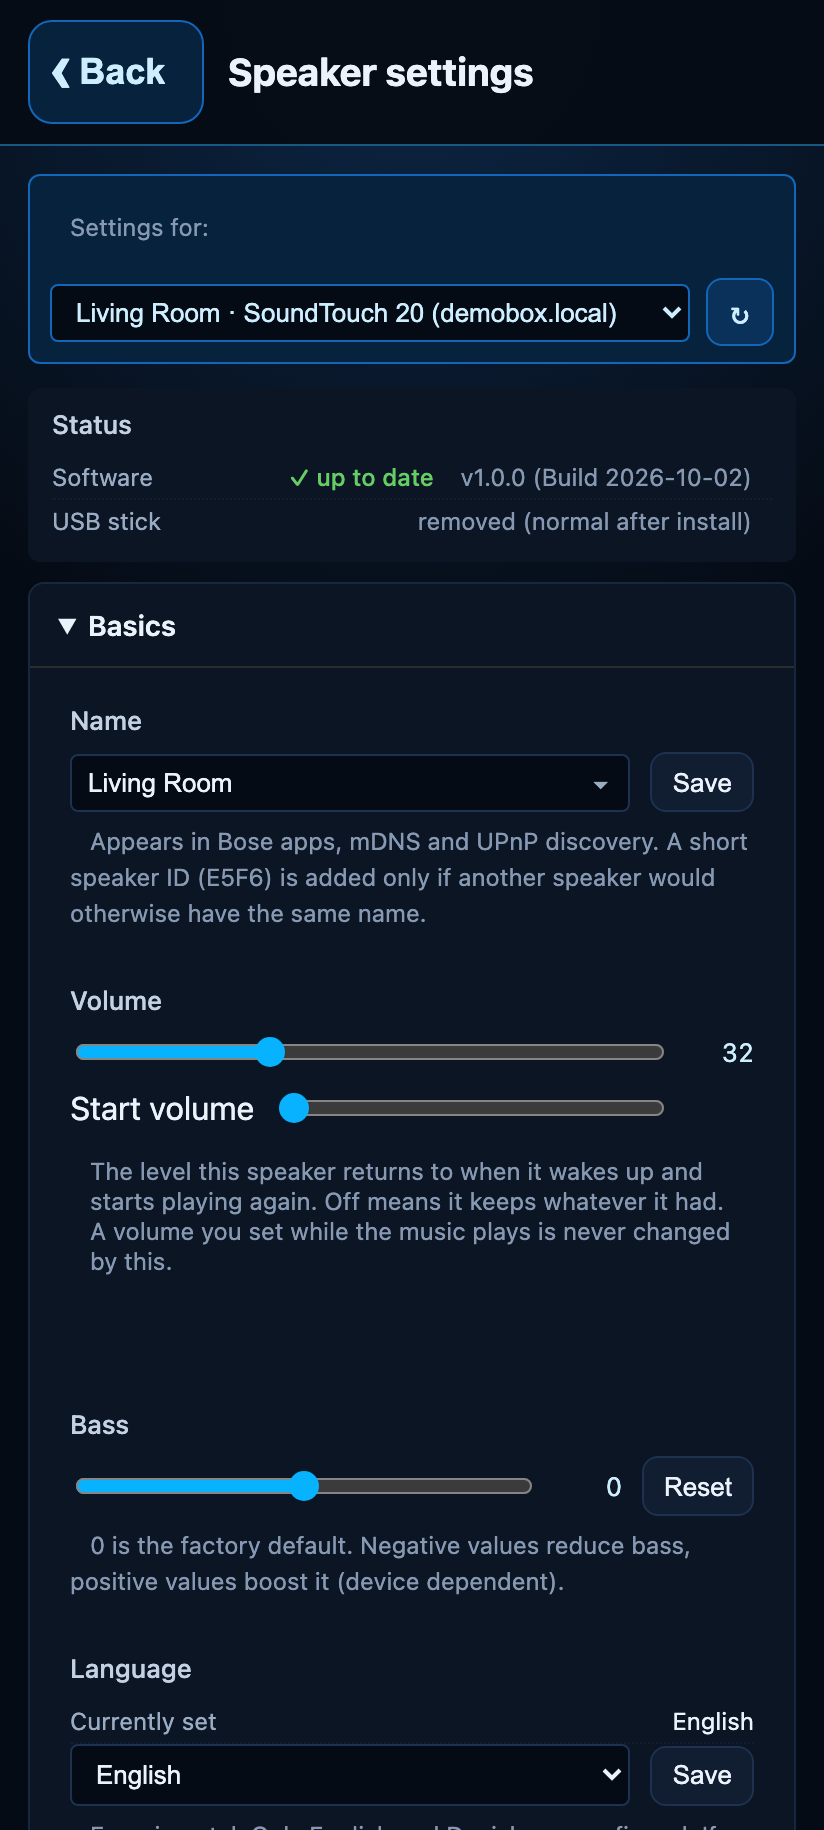
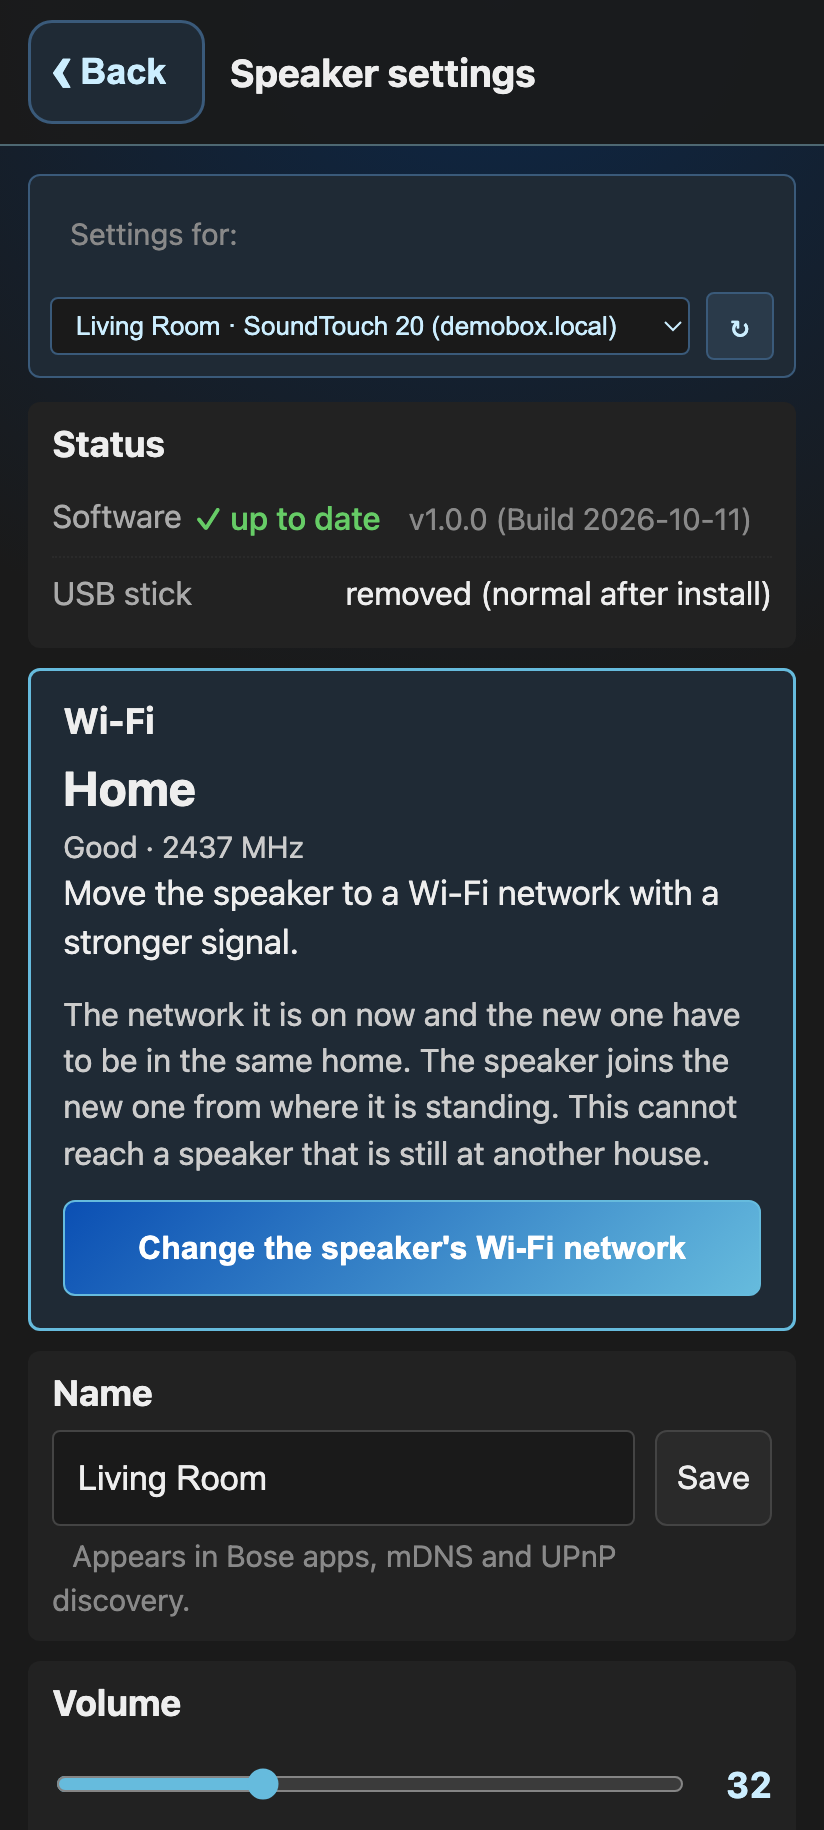
docs(site): show changing a speaker's Wi-Fi from the app

Changed region(s): [[0.0303, 0.0, 0.9709, 0.7475], [0.0607, 0.7475, 0.9405, 1.0]]

diff --git a/site/es/index.html b/site/es/index.html
@@ -43,14 +43,14 @@
 
     <section id="android">
       <h2>Instalar con la app de Android</h2>
-      <p>El teléfono y el altavoz tienen que estar en el mismo Wi-Fi. Usa esta copia hasta que la app esté en Google Play.</p>
+      <p>El teléfono y el altavoz tienen que estar en el mismo Wi-Fi. Usa esta copia hasta que la app esté en Google Play. Desde los ajustes del altavoz puedes pasarlo a otra red Wi-Fi de la misma casa, una con más señal. No hace falta la app de Bose.</p>
       <div class="phones">
         <figure><img src="../img/android/app-home.png" width="824" height="1830" alt="Pantalla de inicio en Android con Escuchar música, Recientes, TuneIn, Spotify, Biblioteca y Multisala"><figcaption>Inicio</figcaption></figure>
         <figure><img src="../img/android/app-listen.png" width="824" height="1830" alt="Reproducción de Best Of Rock.FM con seis teclas de presintonía en la app de Android"><figcaption>Escuchar</figcaption></figure>
         <figure><img src="../img/android/app-search.png" width="824" height="1830" alt="Búsqueda de emisoras por idioma y género, con Best Of Rock.FM, BBC Radio 1 y Radio Paradise"><figcaption>Buscar emisoras</figcaption></figure>
         <figure><img src="../img/android/app-tunein.png" width="824" height="1830" alt="Búsqueda en TuneIn de jazz, con Jazz24, Smooth Jazz 24/7 y Jazz Radio Classic"><figcaption>TuneIn</figcaption></figure>
         <figure><img src="../img/android/app-library.png" width="824" height="1830" alt="Biblioteca de música de un NAS, con carpetas Music, Pictures e Internet Radio"><figcaption>Biblioteca</figcaption></figure>
-        <figure><img src="../img/android/app-settings1.png" width="824" height="1830" alt="Ajustes del altavoz: nombre, volumen, graves e idioma"><figcaption>Ajustes</figcaption></figure>
+        <figure><img src="../img/android/app-settings1.png" width="824" height="1830" alt="Ajustes del altavoz con la red Wi-Fi Home y un botón para pasarlo a otra red de la misma casa"><figcaption>Cambiar Wi-Fi</figcaption></figure>
       </div>
       <ol class="steps">
         <li><strong>Descarga</strong> <a href="https://github.com/jcbenitezhe/SoundTouchManager/releases/latest/download/SoundTouchManager-1.0.0-Android.apk">SoundTouchManager-1.0.0-Android.apk</a>. Si el navegador dice que el archivo puede dañar el dispositivo, elige <em>Descargar de todas formas</em>.</li>
@@ -72,6 +72,7 @@
         <div class="card"><h3>Tu propia música</h3><p>Explora servidores DLNA de tu red (FRITZ!Box, Synology, Plex, miniDLNA).</p></div>
         <div class="card"><h3>Multisala y estéreo</h3><p>Agrupa altavoces para que suenen sincronizados, o empareja dos como izquierdo y derecho.</p></div>
         <div class="card"><h3>Mando en el móvil</h3><p>Cada altavoz ofrece un control remoto en el navegador del teléfono. Sin tienda de apps ni cuenta.</p></div>
+        <div class="card"><h3>Cambiar de red</h3><p>Mueve un altavoz que ya tiene SoundTouch Manager a otra red Wi-Fi de la misma casa. Después conecta el teléfono a esa red.</p></div>
       </div>
     </section>
 
@@ -114,6 +115,10 @@
       <details>
         <summary>¿Necesito una cuenta de Bose o la app de Bose?</summary>
         <p>No. Todo funciona en tu altavoz y en tu computadora, dentro de tu red doméstica.</p>
+      </details>
+      <details>
+        <summary>¿Puedo cambiar la red Wi-Fi del altavoz?</summary>
+        <p>Sí, cuando SoundTouch Manager ya está en el altavoz. Abre los ajustes y elige <em>Configurar otro Wi-Fi</em>. La red de ahora y la red nueva tienen que estar en la misma casa: el altavoz se une a la nueva desde donde está. Después conecta el teléfono a la red nueva. Un altavoz que nunca ha tenido red se configura desde <em>Configurar altavoz</em>, con la app de Bose, un cable Ethernet o una memoria USB.</p>
       </details>
       <details>
         <summary>¿Qué firmware necesita el altavoz?</summary>

diff --git a/site/index.html b/site/index.html
@@ -43,14 +43,14 @@
 
     <section id="android">
       <h2>Install with the Android app</h2>
-      <p>The phone and the speaker need to be on the same Wi-Fi. Use this until the app is on Google Play.</p>
+      <p>The phone and the speaker need to be on the same Wi-Fi. Use this until the app is on Google Play. From Speaker settings you can move the speaker to another Wi-Fi network in the same home, one with a stronger signal. No Bose app is needed.</p>
       <div class="phones">
         <figure><img src="img/android/app-home.png" width="824" height="1830" alt="Android home screen with Listen to music, Recently played, TuneIn, Spotify, Library and Multi-room"><figcaption>Home</figcaption></figure>
         <figure><img src="img/android/app-listen.png" width="824" height="1830" alt="Now playing Best Of Rock.FM with six preset keys on the Android app"><figcaption>Listen</figcaption></figure>
         <figure><img src="img/android/app-search.png" width="824" height="1830" alt="Station search filtered by language and genre, with Best Of Rock.FM, BBC Radio 1 and Radio Paradise"><figcaption>Search stations</figcaption></figure>
         <figure><img src="img/android/app-tunein.png" width="824" height="1830" alt="TuneIn search for jazz, with Jazz24, Smooth Jazz 24/7 and Jazz Radio Classic"><figcaption>TuneIn</figcaption></figure>
         <figure><img src="img/android/app-library.png" width="824" height="1830" alt="Music library browsing a Living Room NAS, with Music, Pictures and Internet Radio folders"><figcaption>Library</figcaption></figure>
-        <figure><img src="img/android/app-settings1.png" width="824" height="1830" alt="Speaker settings for name, volume, bass and language"><figcaption>Speaker settings</figcaption></figure>
+        <figure><img src="img/android/app-settings1.png" width="824" height="1830" alt="Speaker settings showing the Wi-Fi network Home and a button to move the speaker to another network in the same home"><figcaption>Change Wi-Fi</figcaption></figure>
       </div>
       <ol class="steps">
         <li><strong>Download</strong> <a href="https://github.com/jcbenitezhe/SoundTouchManager/releases/latest/download/SoundTouchManager-1.0.0-Android.apk">SoundTouchManager-1.0.0-Android.apk</a>. If the browser says the file can harm your device, choose <em>Download anyway</em>.</li>
@@ -72,6 +72,7 @@
         <div class="card"><h3>Your own music</h3><p>Browse DLNA media servers on your network (FRITZ!Box, Synology, Plex, miniDLNA).</p></div>
         <div class="card"><h3>Multiroom and stereo</h3><p>Group speakers to play in sync, or pair two as left and right.</p></div>
         <div class="card"><h3>Phone remote</h3><p>Each speaker serves a remote for your phone's browser. No app store, no account.</p></div>
+        <div class="card"><h3>Change Wi-Fi</h3><p>Move a speaker that already runs SoundTouch Manager to another Wi-Fi network in the same home. Then connect your phone to that network.</p></div>
       </div>
     </section>
 
@@ -114,6 +115,10 @@
       <details>
         <summary>Do I need a Bose account or the Bose app?</summary>
         <p>No. Everything runs on your speaker and your computer, on your home network.</p>
+      </details>
+      <details>
+        <summary>Can I change the speaker's Wi-Fi?</summary>
+        <p>Yes, once SoundTouch Manager is already on the speaker. Open Speaker settings and choose <em>Change the speaker's Wi-Fi network</em>. The network it is on now and the new one have to be in the same home: the speaker joins the new one from where it is standing. Then connect your phone to the new network. A speaker that has never been on a network is set up from <em>Set up speaker</em>, with the Bose app, an Ethernet cable, or a USB stick.</p>
       </details>
       <details>
         <summary>Which speaker firmware do I need?</summary>
